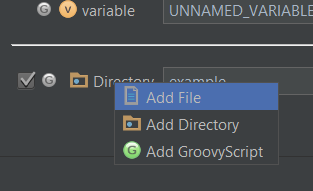
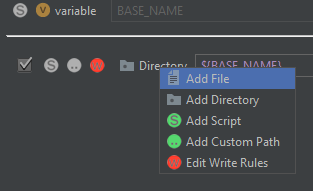
Update RU docs part 2

diff --git a/_layouts/other.html b/_layouts/other.html
@@ -1,0 +1,13 @@
+---
+layout: default
+---
+
+<h2>{{ page.title }}</h2>
+
+{{ content }}
+
+
+<div><div id="footerNavigation"div>
+<!-- Содержание -->
+<a href="{{ site.baseurl }}/{{ page.lang }}">{{ site.data.i18n.back[page.lang] }}</a>
+</div></div>

diff --git a/_tutorials/ru/script.md b/_tutorials/ru/script.md
@@ -1,10 +1,10 @@
 ---
-title: Groovy Скрипт
+title: Script
 lang: ru
 order: 6
 ---
 
-[Groovy][1] Скрипт позволяет модифицировать:
+Скрипт пишется на популярном языке [JavaScript][1] и позволяет модифицировать:
 
 * Название файла
 * Название директории
@@ -14,17 +14,16 @@ order: 6
 
 ![add_global_variable]({{ site.baseurl }}/images/tutorial/add_global_variable.png){: .imageFragment}
 
-Если за элементом закреплен скрипт его иконка 'G' становится цветной (зеленой), иначе - черно-белой.<br>
+Если за элементом закреплен скрипт его иконка 'S' становится цветной (зеленой), иначе - черно-белой.<br>
 
 ### Редактирование скрипта
 
 Диалог состоит из поля ввода с заготовленным шаблоном и примером. Нужно лишь реализовать тело метода.
 Ниже можно протестировать скрипт, нажав на кнопку **Попробовать**. Содержимое поля над кнопкой будет преобразовано скриптом из первого поля, а результат выведен под кнопкой.<br>
-Весь код завернут в try catch (исключения в java), при возникновении **Exception** результатом будет строка **GroovyScriptError**. Вся ответственность за работоспособность скрипта лежит на пользователе. Скрипт всегда можно отредактировать с помощью меню из ПКМ.
+Весь код завернут в try catch (исключения в java), при возникновении **Exception** результатом будет строка **ScriptError**. Вся ответственность за работоспособность скрипта лежит на пользователе. Скрипт всегда можно отредактировать с помощью меню из ПКМ.
 
-Примечание: Как вы уже догадались, скрипт пишется на языке [Groovy][1].
 
-![groovy_dialog]({{ site.baseurl }}/images/tutorial/groovy_dialog.png){: .imageFragment}
+![script_dialog]({{ site.baseurl }}/images/tutorial/script_dialog.png){: .image}
 
-[1]: http://www.groovy-lang.org/
+[1]: {{ site.baseurl}}{{ site.data.links.javascript }}
 [2]: {{ site.baseurl}}{{ site.data.links.tutorial_global_variables[page.lang] }}

diff --git a/_tutorials/ru/errors.md b/_tutorials/ru/errors.md
@@ -4,25 +4,14 @@ lang: ru
 order: 8
 ---
 
-Плагин достаточно гибкий и предоставляет много опций для кастомизации шаблонов. За эту "*свободу*" приходится платить безопасностью. Например, на имена файлов не накладываются ограничения и юзер может создать файл с некорректным именем.
+В случае возникновения ошибки будет показан отчет:
 
-В данный момент плагин находится на стадии **beta** и имеет достаточно примитивную систему оповещений об ошибках. Создание файла завернуто в "try ... catch" блок (перехват исключений в языке Java) и в случае возникновения ошибки плагин сохранит информацию о ней и продолжит работу, а в конце покажет диалог с перечнем ошибок.
+![report_with_error]({{ site.baseurl }}/images/tutorial/report_with_error.png){: .image}
 
-![failed_elements_dialog]({{ site.baseurl }}/images/tutorial/failed_elements_dialog.png){: .image}
+Подробное сообщение:
 
-**Примечание:** если нажать **Cancel**, то созданные файлы и директории будут удалены, если **OK**, то удачно созданные элементы останутся.
-
-В примере выше диалог показал, что во время создания шаблона было 2 ошибки:
-
-1. При создании **7FooExampleBar**
-2. При создании **Foo**
-
-Сообщения бывают достаточно длинными и не показываются целиком. Чтобы просмотреть все сообщение воспользуйтесь кнопкой **{{ site.data.const.button_show_details }}**
-
-![failed_elements_dialog]({{ site.baseurl }}/images/tutorial/error_details.png){: .image}
+![report_detailed_message]({{ site.baseurl }}/images/tutorial/report_detailed_message.png){: .image}
 
 Проанализируйте сообщения об ошибках и попытайтесь их исправить. Если вы считаете, что проблема в плагине, то свяжитесь с разработчиком. Контакты для связи можно найти [здесь][2].
 
-
-[1]: {{ site.baseurl}}{{ site.data.links.tutorial_create_template[page.lang] }}
 [2]: {{ site.baseurl}}/{{ page.lang }}

diff --git a/_tutorials/ru/create_template.md b/_tutorials/ru/create_template.md
@@ -9,8 +9,14 @@ order: 3
 1. Зарегистрировать как *Action*. Позволяет настроить [сочетание клавиш][4].
 2. Пропускать диалог с [преднастройками][3]. Будут использованы имена файлов и папок по умолчанию(указанные при создании\редактировании).
 3. Не создавать корневую директорию. Для случаев, когда нужны только файлы.
-4. [Глобальные переменные][1].
-5. Структура шаблона. Добавлять\удалять элементы можно с помощью ПКМ. Флажок вначале элемента отвечает за его создание.
+4. Показывать отчет после успешного выполнения шаблона.
+5. [Глобальные переменные][1].
+6. Структура шаблона. Добавлять\удалять элементы можно с помощью ПКМ.<br>
+**A.** Вкл\Выкл элемент, в момент исполнения шаблона будут созданы только отмеченные элементы.<br>
+**B.** [Script][5]<br>
+**C.** Custom Path<br>
+**D.** [Write Rules][2]<br>
+
 
 ![add_element]({{ site.baseurl }}/images/tutorial/add_element.png){: .imageFragment}
 
@@ -19,12 +25,13 @@ order: 3
 ![select_file_template]({{ site.baseurl }}/images/tutorial/select_file_template.png){: .imageFragment}
 
 ### Пример шаблона
-Чтобы лучше понять содержимое примера следует ознакомиться с [Глобальными переменными][1] и [Groovy scripts][2].
+Чтобы лучше понять содержимое примера следует ознакомиться с остальными статьями.
 
 ![new_package_template_dialog_full]({{ site.baseurl }}/images/tutorial/new_package_template_dialog_full.png){: .image}
 
 
 [1]: {{ site.baseurl}}{{ site.data.links.tutorial_global_variables[page.lang] }}
-[2]: {{ site.baseurl}}{{ site.data.links.tutorial_groovy_script[page.lang] }}
+[2]: {{ site.baseurl}}{{ site.data.links.tutorial_write_rules[page.lang] }}
 [3]: {{ site.baseurl}}{{ site.data.links.tutorial_presettings[page.lang] }}
 [4]: {{ site.baseurl}}{{ site.data.links.tutorial_shortcuts[page.lang] }}
+[5]: {{ site.baseurl}}{{ site.data.links.tutorial_script[page.lang] }}

diff --git a/_tutorials/ru/write_rules.md b/_tutorials/ru/write_rules.md
@@ -10,8 +10,8 @@ order: 10
 ### Разрешение конфликтов
 Есть несколько вариантов:
 
-1. **Overwrite** (Перезапись) удаляет существующий элемент.
-2. **Use Existing** (Использовать существующий) игнорирует создание новых элементов. Для директорий игнорируется операция создания, однако все внутренние элементы будут созданы в существующей директории.
+* **Overwrite** (Перезапись) удаляет существующий элемент.
+* **Use Existing** (Использовать существующий) игнорирует создание новых элементов. Для директорий игнорируется операция создания, однако все внутренние элементы будут созданы в существующей директории.
 
 ### Реализация в плагине
 
@@ -20,6 +20,12 @@ order: 10
 Выпадающий список содержит две дополнительные опции:
 
 1. **From Parent** - будут унаследованы правила родителя(директории).
+
 2. **Ask Me** - в случае возникновения конфликтов будет показан диалог с доступными опциями.
+
+**Примечание:** **Отмена действия** Ctrl + Z (для *mac* Command ⌘ + Z) отменяет все действия, однако IDE устроена так, что диалоги разделяют **команду**. **Ask me** использует диалог. Простые конфликты проверяются перед началом **команды**, однако некоторые конфликты нельзя  проверить заранее, например элементы с **Custom Path**.
+Если вы не уверены в том, что **команда** разбивалась на несколько, то можете отменять до тех пор, пока **команда** называется **Execute PackageTemlate**, как на изображении ниже:
+
+![undo_dialog]({{ site.baseurl }}/images/tutorial/undo_dialog.png){: .image}
 
 [1]: {{ site.data.links.file_template_variables }}

diff --git a/ru.md b/ru.md
@@ -7,6 +7,11 @@ lang: ru
 ### Описание
 Package Templates это плагин реализующий Multiple [File Templates][1]. Он позволяет создавать шаблоны, состоящие из директорий и File Tamplates.
 
+### Подробнее:
+{% assign listTutorials = site.tutorials | where_exp:"item", "item.lang == page.lang" | sort: 'order' %}
+{% for tutorial in listTutorials %}
+* [{{ tutorial.title }}]({{ site.baseurl }}{{ tutorial.url }}){% endfor %}
+
 ### Поддерживаемые IDE
 Плагин должен работать на всех **IntelliJ IDEA-based IDEs**, но тестировался только на следующих:
 
@@ -14,10 +19,8 @@ Package Templates это плагин реализующий Multiple [File Temp
 * Android Studio.
 * PyCharm.
 
-### Подробнее:
-{% assign listTutorials = site.tutorials | where_exp:"item", "item.lang == page.lang" | sort: 'order' %}
-{% for tutorial in listTutorials %}
-* [{{ tutorial.title }}]({{ site.baseurl }}{{ tutorial.url }}){% endfor %}
+### Известные проблемы
+* [Appcode Groups][7]
 
 ### Запланированные фичи
 [Список][5] фич на *github*.<br>
@@ -37,3 +40,4 @@ Package Templates это плагин реализующий Multiple [File Temp
 [3]: {{ site.data.links.mailto_developer }}
 [5]: {{ site.data.links.github_todo_project }}
 [6]: {{ site.data.links.github_issues }}
+[7]: {{ site.baseurl}}{{ site.data.links.other_appcode_groups[page.lang]}}

diff --git a/_tutorials/ru/basics.md b/_tutorials/ru/basics.md
@@ -8,11 +8,24 @@ order: 2
 
 ![context_menu]({{ site.baseurl }}/images/tutorial/context_menu.png){: .imageFragment}
 
-Шаблоны можно создавать, удалять и редактировать.
 
-![select_package_template]({{ site.baseurl }}/images/tutorial/select_package_template.png){: .image}
+![main_dialog]({{ site.baseurl }}/images/tutorial/main_dialog.png){: .image}
 
-Чтобы воспользоваться шаблоном выделите его и нажмите **{{ site.data.const.button_select }}**
+1. Создать
+2. Редактировать
+3. В Добавить\Удалить в\из **{{ site.data.const.favourites }}**.
+4. Настройки Плагина
+5. Экспорт
+6. Импорт
 
+### Выбор шаблона
+Есть два варианта выбора:
+
+**А.** Указав путь к файлу (.json)<br>
+**B.** Из **{{ site.data.const.favourites }}**<br>
+
+**Примечание:** **{{ site.data.const.favourites }}** запоминает путь к файлу. Если при запуске IDE по сохраненному пути не будет файла, то шаблон автоматически удалится из списка **{{ site.data.const.favourites }}**. 
+
+В **{{ site.data.const.favourites }}** можно добавлять несколько шаблонов.
 
 [1]: {{ site.baseurl}}{{ site.data.links.tutorial_shortcuts[page.lang] }}

diff --git a/_other/ru/appcode_groups.md b/_other/ru/appcode_groups.md
@@ -1,0 +1,18 @@
+---
+title: AppCode Groups
+lang: ru
+layout: other
+css: tutorials.css
+---
+
+**Groups** - фича из Appcode(XCode). Плагин не умеет работать с **Groups** и будет создавать обычные директории.
+В данный момент временным решением является создание группы вручную(из существующих файлов\директорий).
+Для этого в Project View нужно выбрать режим **Files**, чтобы были видны созданные файлы, а затем добавить их через контекстное меню(ПКМ на директории).
+
+P.S. Если шаблон состоит только из файлов(FileTemplates), то файлы добавятся в **Groups** без проблем.
+
+![appcode_add_to_group_dialog]({{ site.baseurl }}/images/tutorial/appcode_add_to_group_dialog.png){: .imageFragment}
+
+![appcode_project_view]({{ site.baseurl }}/images/tutorial/appcode_project_view.png){: .imageFragment}
+
+[1]: {{ site.data.links.file_template_variables }}

diff --git a/_tutorials/ru/tips_and_tricks.md b/_tutorials/ru/tips_and_tricks.md
@@ -28,9 +28,6 @@ order: 9
 
 **Примечание:** это не касается [File Templates][4], они не зависят от этого плагина и поддерживаются создателями IDE т.е. [JetBrains][5]. Их можете создавать сколько угодно.
 
-### Отмена действия
-**Отмена действия** Ctrl + Z (для *mac* Command ⌘ + Z) срабатывает не для всего шаблона, а для его элементов(файлы и директории). Например, если в шаблоне 1 директория и 2 папки, то для полной отмены нужно воспользоваться **отменой действия** 3 раза ^_^.
-
 **Примечание:** В большинстве случаев легче выделить корневую директорию созданного шаблона и нажать **Delete**.
 
 

diff --git a/_tutorials/ru/presettings.md b/_tutorials/ru/presettings.md
@@ -6,8 +6,9 @@ order: 4
 
 После выбора шаблона из списка появляется диалог с преднастройками. Окно похоже на **Редактирование шаблона** только доступно меньше опций:
 
+* Опция пропуска корневой директории.
+* Опция показа отчета.
 * Вкл\выкл элементов флажком слева.
-* Пропуск корневой директории.
 * Редактирование имен элементов.
 * Редактирование глобальных переменных.
 
